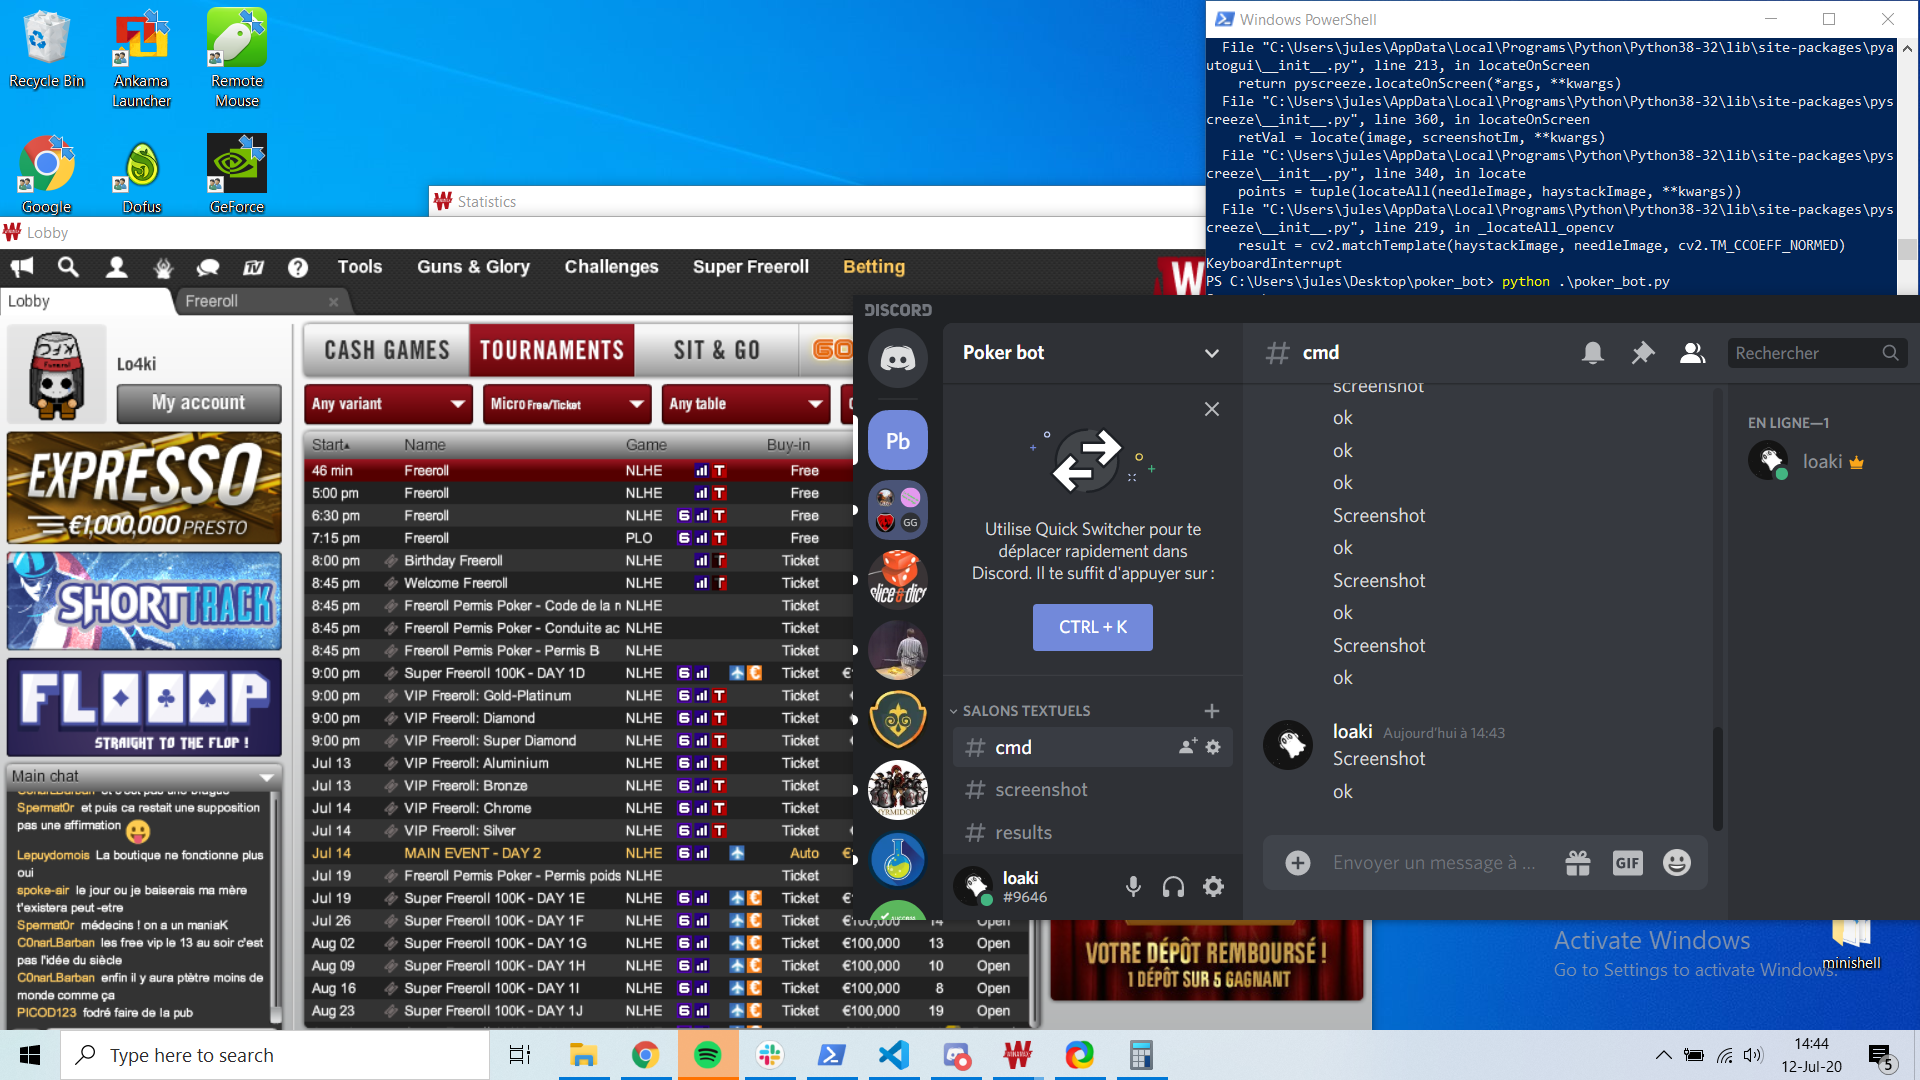
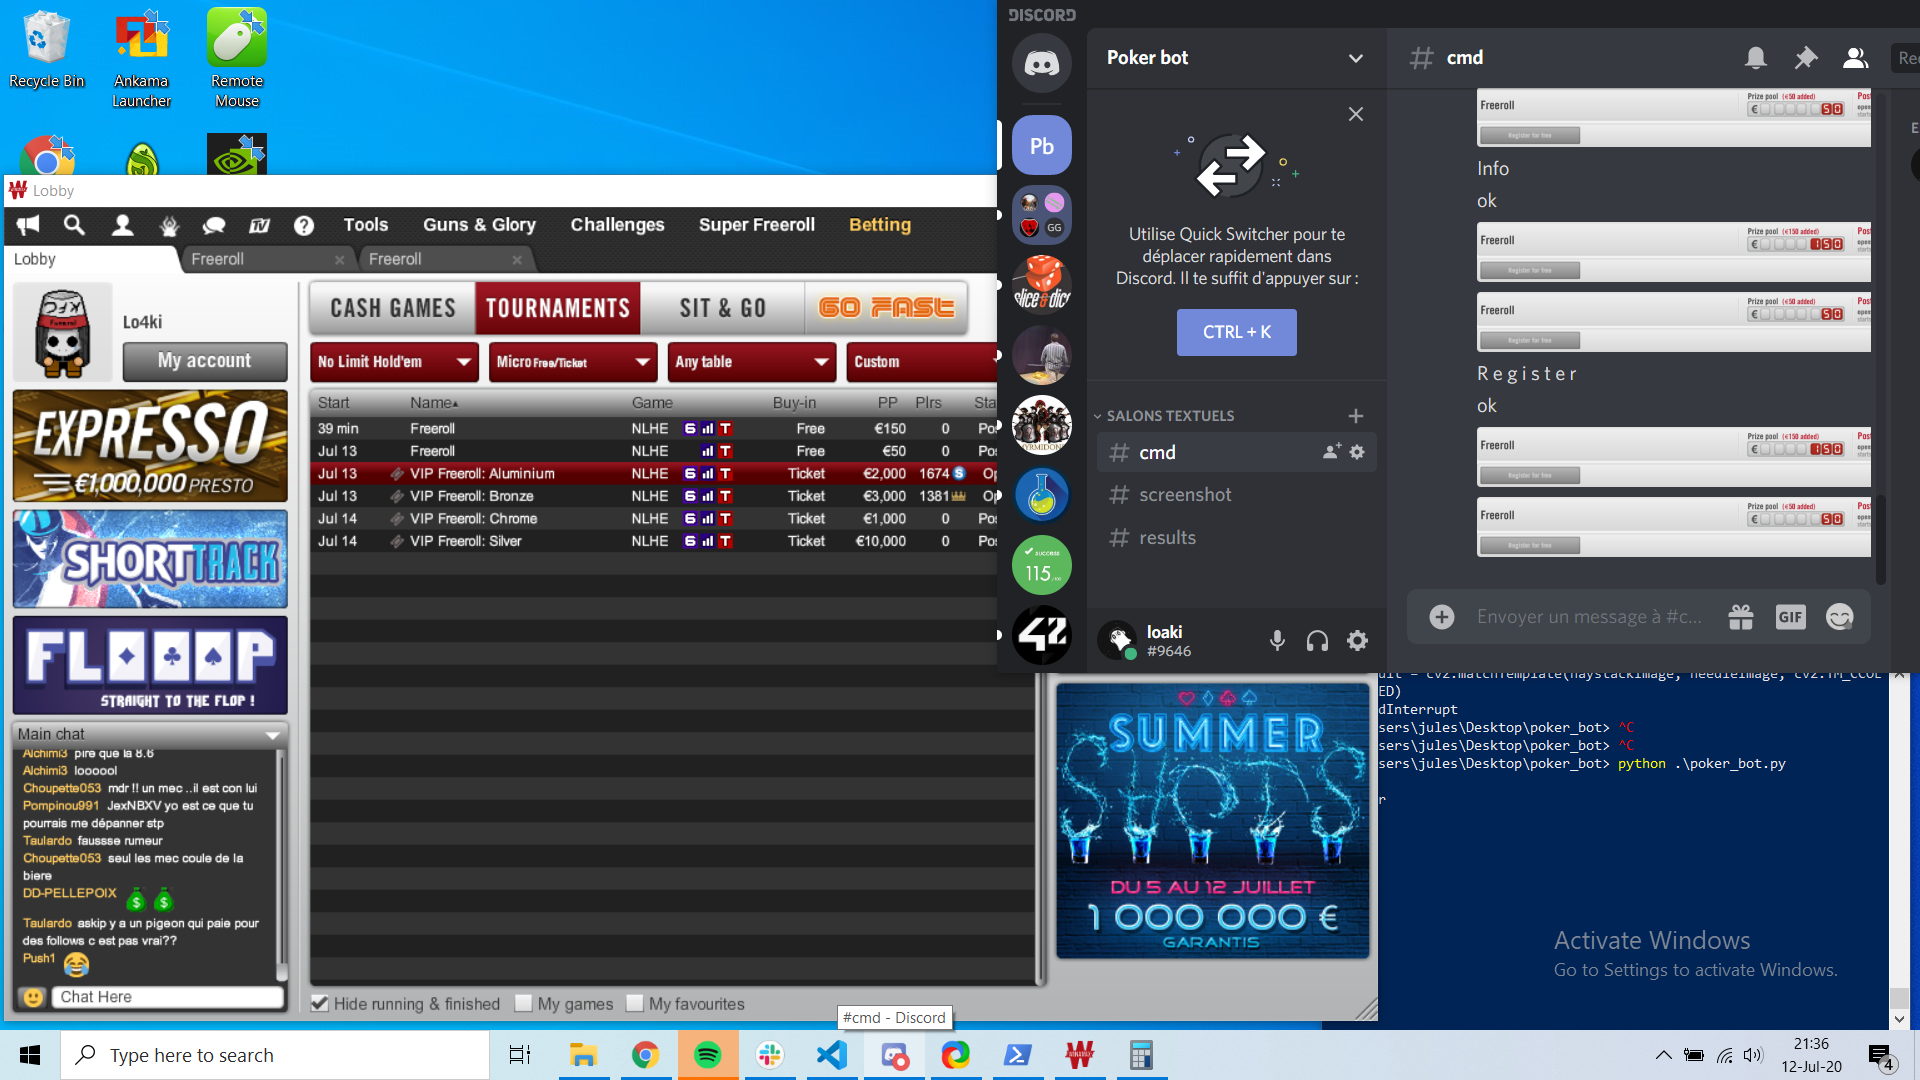
remote done

diff --git a/lobby.py b/lobby.py
@@ -2,4 +2,72 @@ import pyautogui
 import pytesseract
 import os
 
-from PIL import Image, ImageEnhance, ImageFilter
+from PIL import Image, ImageEnhance, ImageFilter     
+
+def read_t(file_name):
+    img = Image.open(file_name).convert('LA')
+    enhancer = ImageEnhance.Contrast(img)
+    img = enhancer.enhance(2)
+    img.save('images/greyscaledc.png')
+    pytesseract.pytesseract.tesseract_cmd = 'C:/Program Files/Tesseract-OCR/tesseract.exe'
+    customconf = r'-c tessedit_char_whitelist=ABCDEFHIJKLMNOPQRSTUVWXYZabcdefghijklmnopqrstuvwxyz --oem 3 --psm 6'
+    return (pytesseract.image_to_string('images/greyscaledc.png', config=customconf))
+
+def t_screenshot():
+    if pyautogui.locateOnScreen('images/lobby/info.png') != None:
+        iloc = pyautogui.locateOnScreen('images/lobby/info.png')
+        if iloc != None:
+            pic = pyautogui.screenshot(region=(iloc[0], iloc[1], 1365, 165))
+            pic.save('images/tinfo.png')
+        if pyautogui.locateOnScreen('images/discord/+.png') != None:
+            pyautogui.click('images/discord/+.png', interval = 0.25)
+            pyautogui.write('tinfo.png')
+            pyautogui.press('enter', interval = 0.25)
+            pyautogui.press('enter')
+
+def t_info():
+    if pyautogui.locateOnScreen('images/lobby/mainchat.png') != None:
+        pyautogui.click('images/lobby/mainchat.png')
+        pic = pyautogui.screenshot()
+        pic.save('images/lobby.png')
+        im = Image.open('images/lobby.png')
+        pix = im.load()
+        if pyautogui.locateOnScreen('images/lobby/lobbys.png') != None:
+            lloc = pyautogui.locateOnScreen('images/lobby/lobbys.png')
+            for i in range(1,6):
+                r,g,b=pix[int(lloc[0]+i*177),int(lloc[1])]
+                if (r > 60):
+                    pyautogui.click(lloc[0]+i*177, lloc[1])
+                    if pyautogui.locateOnScreen('images/lobby/finalpos.png') != None or t_check() == 0:
+                        pyautogui.doubleClick(lloc[0]+i*177+147, lloc[1]+8, interval = 0.25)
+                    else:
+                        t_screenshot()
+            if pyautogui.locateOnScreen('images/lobby/lobby.png') != None:
+                pyautogui.click('images/lobby/lobby.png')
+
+def t_check():
+    if pyautogui.locateOnScreen('images/lobby/info.png') != None:
+        iloc = pyautogui.locateOnScreen('images/lobby/info.png')
+        if iloc != None:
+            pic = pyautogui.screenshot(region=(iloc[0], iloc[1]+20, 300, 80))
+            pic.save('images/tinfo.png')
+            if (read_t('images/tinfo.png') == 'Freeroll'):
+                return (1)
+    return (0)
+
+def t_register():
+    if pyautogui.locateOnScreen('images/lobby/mainchat.png') != None:
+        pyautogui.click('images/lobby/mainchat.png')
+        if pyautogui.locateOnScreen('images/lobby/name.png') != None:
+            nloc = pyautogui.locateOnScreen('images/lobby/name.png')
+            for i in range(1,4):
+                pyautogui.click(nloc[0], nloc[1]+5+i*22, clicks = 2)
+                if pyautogui.locateOnScreen('images/lobby/registerfree.png') != None:
+                    pyautogui.click('images/lobby/registerfree.png')
+                    if pyautogui.locateOnScreen('images/lobby/register.png') != None:
+                        pyautogui.click('images/lobby/register.png')
+                if pyautogui.locateOnScreen('images/lobby/lobby.png') != None:
+                    pyautogui.click('images/lobby/lobby.png')
+    t_info()
+
+    

diff --git a/poker_bot.py b/poker_bot.py
@@ -40,12 +40,18 @@ def screenshot(max):
     pic.save('images/tocall.png')
 
 def set_position(max):
-    if pyautogui.locateOnScreen('images/button/seat.png') != None:
-        pyautogui.click('images/button/seat.png')
+    im = Image.open('images/screenshot.png')
+    pix = im.load()
     if max == 8:
-        pyautogui.click(136,175)
+        r,g,b=pix[193,128+5]
     if max == 6:
-        pyautogui.click(136,180)
+        r,g,b=pix[140,177+5]
+    if r < 215 and pyautogui.locateOnScreen('images/button/seat.png') != None:
+        pyautogui.click('images/button/seat.png')
+        if max == 8:
+            pyautogui.click(136,175)
+        if max == 6:
+            pyautogui.click(136,180)
 
 def new_table(max):
     if pyautogui.locateOnScreen('images/button/newtable.png') != None:
@@ -55,8 +61,8 @@ def new_table(max):
 def sit_back():
     if pyautogui.locateOnScreen('images/button/smiley.png') == None:
         pyautogui.click(511,19)
-        if pyautogui.locateOnScreen('images/button/sitback.png') != None:
-            pyautogui.click('images/button/sitback.png')
+    if pyautogui.locateOnScreen('images/button/sitback.png') != None:
+        pyautogui.click('images/button/sitback.png')
 
 def get_max():
     if (get_nplayer(8)/8 > get_nplayer(6)/6):
@@ -138,7 +144,7 @@ def read_card(file_name):
     string = pytesseract.image_to_string('images/greyscalecard.png', config=customconf)
     if not string:
         return ''
-    if (string[0] == '1' and string[1] == '0'):
+    if (len(string) >= 2 and string[0] == '1' and string[1] == '0'):
         return ('T')
     return (string[0])
 
@@ -218,14 +224,15 @@ class Data():
     stack = 0
 
 if __name__ == "__main__":
+    exit = 0
+    dc = 1
     pic = pyautogui.screenshot()
     pic.save('images/screenshot.png')
-    max = get_max()
-    set_position(max)
-    screenshot(max)
-    while pyautogui.locateOnScreen('images/button/finish.png') == None:
+    while exit == 0:
         sit_back()
+        max = get_max()
         new_table(max)
+        set_position(max)
         screenshot(max)
         if pyautogui.locateOnScreen('images/button/bet.png') != None or pyautogui.locateOnScreen('images/button/fold.png') != None:
             screenshot(max)
@@ -236,10 +243,20 @@ if __name__ == "__main__":
             print(bet, act)
             print('\n')
             action(bet , act)
-        discord()
-    pic = pyautogui.screenshot(region=(159, 156, 589, 432))
-    pic.save('images/result.png')
-    dc_result()
+        if dc == 1:
+            exit = discord()
+        if pyautogui.locateOnScreen('images/button/finish.png') != None:
+            print('????????')
+            pic = pyautogui.screenshot(region=(159, 156, 589, 432))
+            pic.save('images/result.png')
+            if dc == 1:
+                dc_result()
+            pyautogui.click(509, 482)
             
-    
-#afer : check la position du joueur et son stack
+'''
+afer : 
+check la position du joueur 
+check stack
+cmd register
+register tounaments
+'''

diff --git a/remote.py b/remote.py
@@ -2,6 +2,7 @@ import pyautogui
 import pytesseract
 import os
 
+from lobby import t_info, t_register
 from PIL import Image, ImageEnhance, ImageFilter
 
 def read_cmd(file_name):
@@ -22,11 +23,10 @@ def dc_write(string):
         pyautogui.press('enter')
 
 def dc_screenshot():
-    dc_write('ok')
     if pyautogui.locateOnScreen('images/discord/screenshot.png') != None:
         pyautogui.click('images/discord/screenshot.png')
         if pyautogui.locateOnScreen('images/discord/+.png') != None:
-            pyautogui.click('images/discord/+.png')
+            pyautogui.click('images/discord/+.png', interval = 0.25)
             pyautogui.write('screenshot.png')
             pyautogui.press('enter', interval = 0.25)
             pyautogui.press('enter')
@@ -35,7 +35,7 @@ def dc_result():
     if pyautogui.locateOnScreen('images/discord/results.png') != None:
         pyautogui.click('images/discord/results.png')
         if pyautogui.locateOnScreen('images/discord/+.png') != None:
-            pyautogui.click('images/discord/+.png')
+            pyautogui.click('images/discord/+.png', interval = 0.25)
             pyautogui.write('result.png')
             pyautogui.press('enter', interval = 0.25)
             pyautogui.press('enter')
@@ -45,6 +45,8 @@ def discord():
         pyautogui.click('images/discord/cancel.png')
     if pyautogui.locateOnScreen('images/discord/shortcut.png') != None:
         pyautogui.click('images/discord/shortcut.png')
+    if pyautogui.locateOnScreen('images/discord/shortcut2.png') != None:
+        pyautogui.click('images/discord/shortcut2.png')
     if pyautogui.locateOnScreen('images/discord/server.png') != None:
         pyautogui.click('images/discord/server.png')
     if pyautogui.locateOnScreen('images/discord/cmd.png') != None:
@@ -57,4 +59,15 @@ def discord():
             cmd = read_cmd('images/cmd.png')
             print(cmd)
             if (cmd == 'screenshot' or cmd == 'Screenshot'):
+                dc_write('ok')
                 dc_screenshot()
+            if (cmd == 'info' or cmd == 'Info'):
+                dc_write('ok')
+                t_info()
+            if (cmd == 'register' or cmd == 'Register'):
+                dc_write('ok')
+                t_register()
+            if (cmd == 'stop' or cmd == 'Stop'):
+                dc_write('ok')
+                return (1)
+    return (0)
